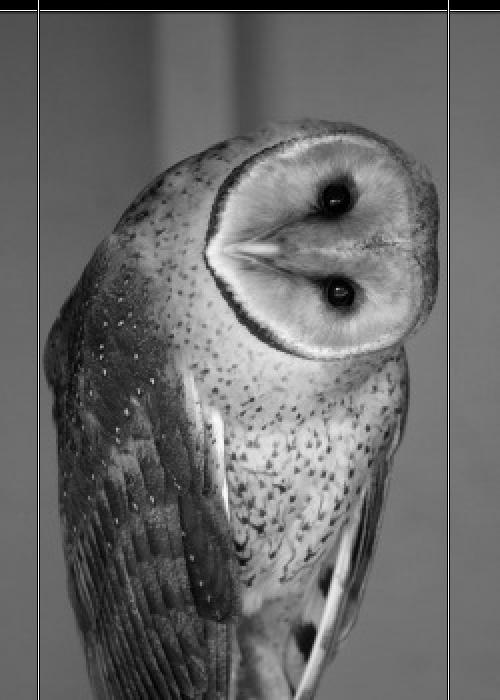
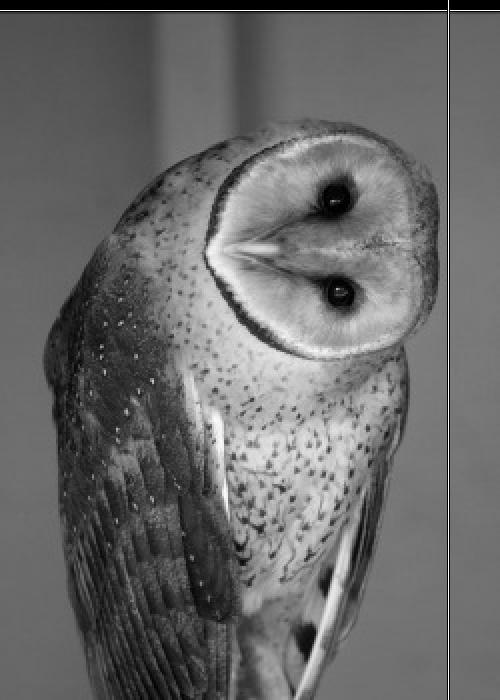
license, readme, median to 0.3 --> 91%/14%

Changed region(s): [[0.06, 0.0, 0.09, 1.0]]

diff --git a/enimda.py b/enimda.py
@@ -18,7 +18,7 @@ DETECTED_BORDERED_PATH = './images/detected/bordered'   # Bordered results
 # image has border on the particular side
 # Make it lower to exclude monotone cases and higher to crop every image which
 # has real content
-MEDIAN = 0.5
+MEDIAN = 0.3
 
 
 # Source files - clear and bordered, sorted alphabetically
@@ -169,6 +169,7 @@ def outline(im, top, right, bottom, left):
 
 
 # Process bordered images
+rate = 0
 for index, name in enumerate(source_bordered_files):
     im = converted(join(SOURCE_BORDERED_PATH, name))
     res = scan(im)
@@ -183,7 +184,11 @@ for index, name in enumerate(source_bordered_files):
 
     print(index, name, res)
 
+    rate += int(any((res[0][0], res[1][0], res[2][0], res[3][0], )))
+print(rate/len(source_bordered_files))
+
 # Process clear images
+rate = 0
 for index, name in enumerate(source_clear_files):
     im = converted(join(SOURCE_CLEAR_PATH, name))
     res = scan(im)
@@ -197,3 +202,6 @@ for index, name in enumerate(source_clear_files):
     im.close()
 
     print(index, name, res)
+
+    rate += int(any((res[0][0], res[1][0], res[2][0], res[3][0], )))
+print(rate/len(source_clear_files))

diff --git a/README.md b/README.md
@@ -63,5 +63,6 @@ python enimda.py
 
 Within the **source** folder you will find source images - with border (bordered)
 and without (clear)
+
 In the **detected** folder there are the results of source images processing - 
 each image has its borders outlined for visual demonstration
